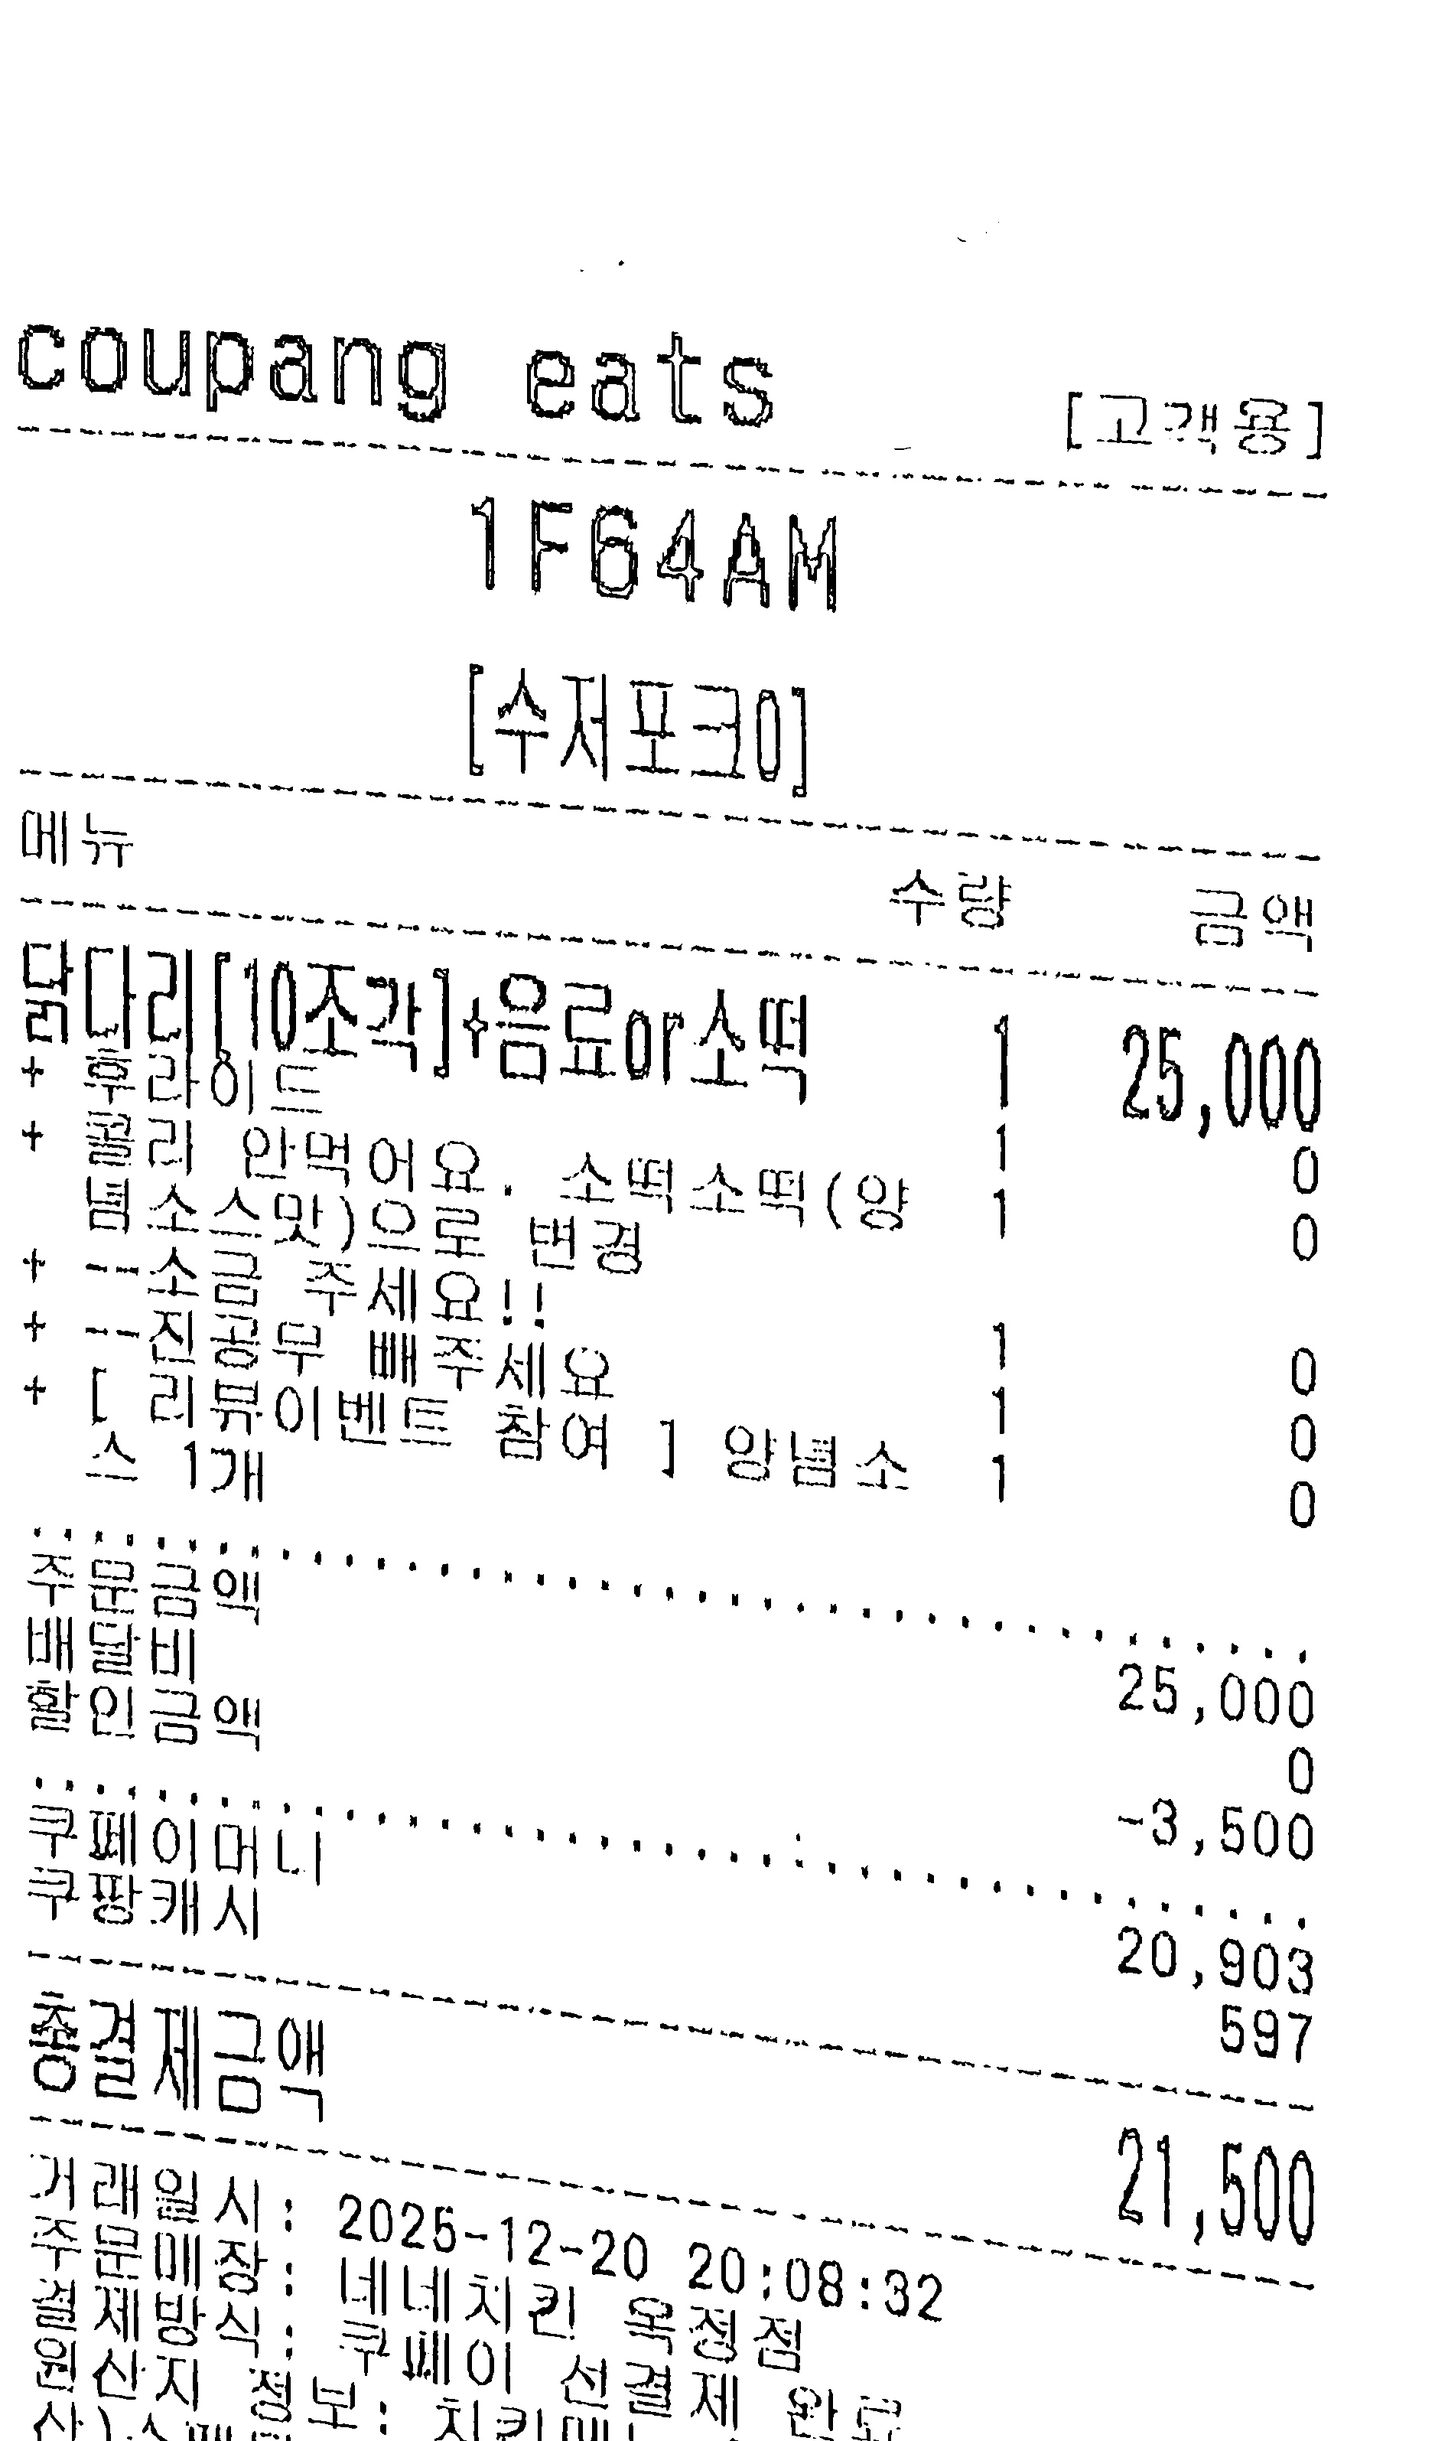
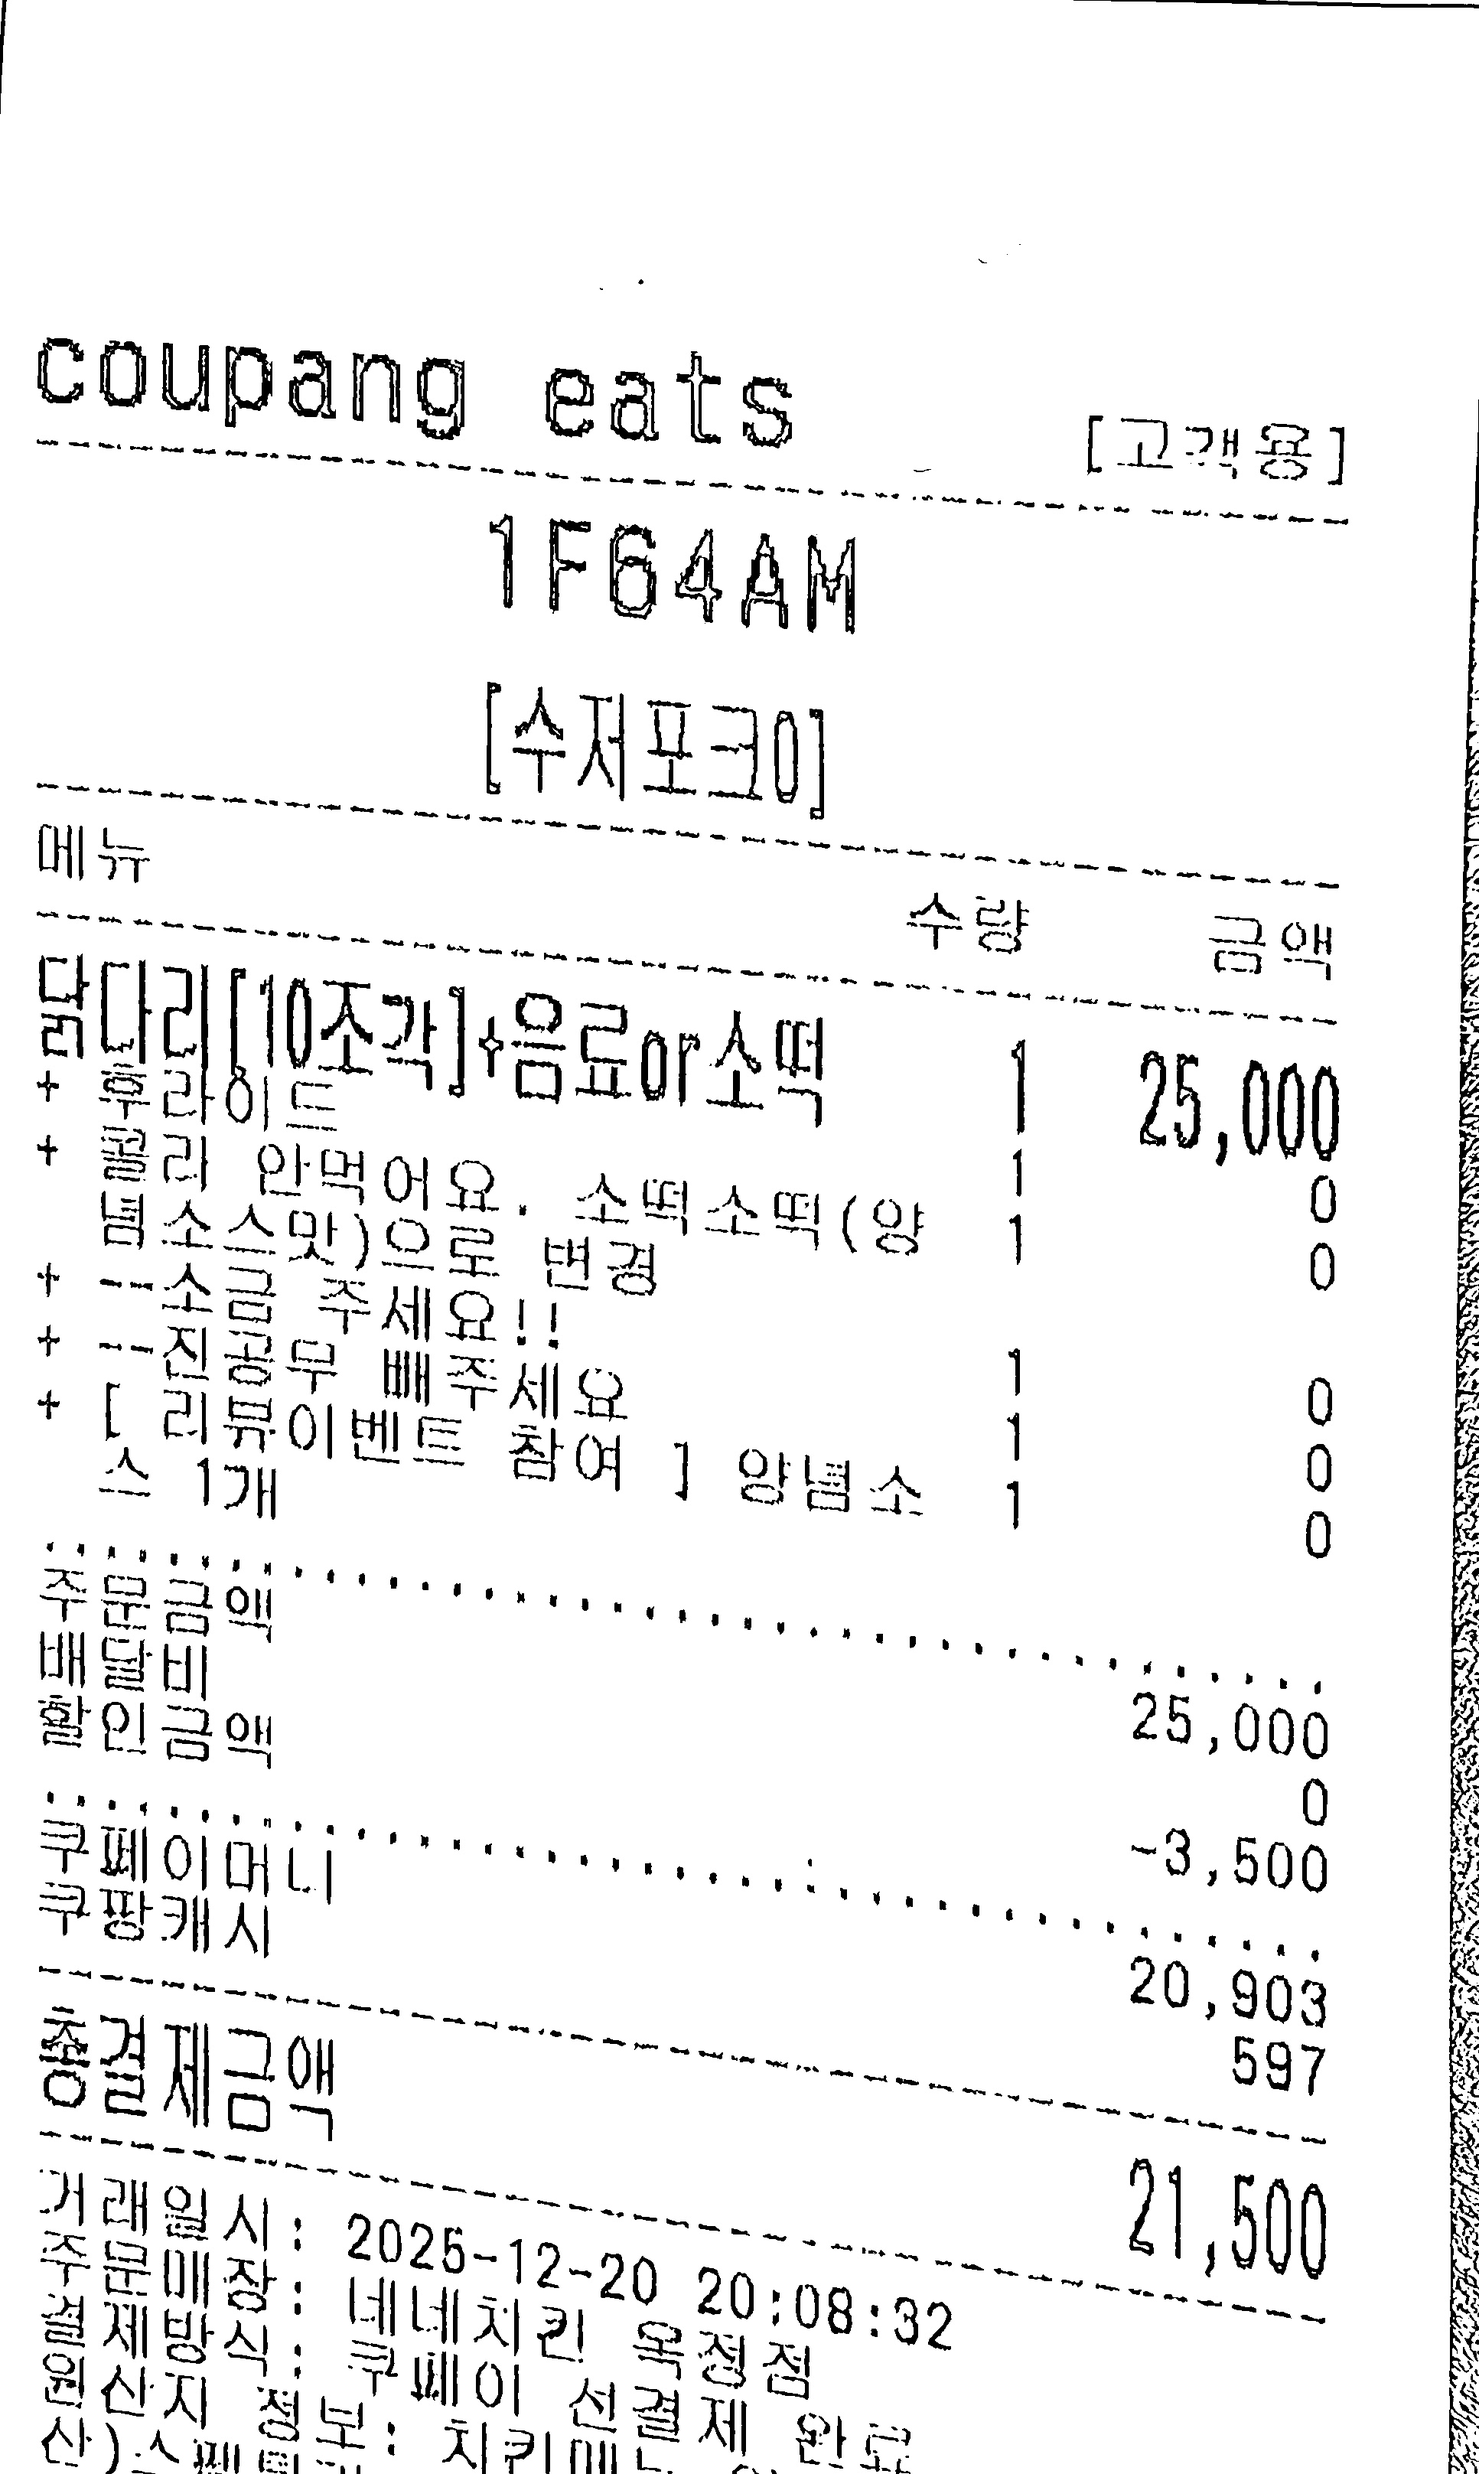
feat: 영수증 전처리 스크립트와 이진화, 윤곽선, 왜곡 보정 결과 이미지 파일을 추가합니다.

diff --git a/backend/geminiCLI-ocr-receipts/preprocess_receipt.py b/backend/geminiCLI-ocr-receipts/preprocess_receipt.py
@@ -262,15 +262,20 @@ def get_white_paper_mask(image):
                 best_score = score
                 best_threshold = (v_thresh, s_thresh, l_thresh)
                 
-                # 최적 마스크 생성
+                # 최적 마스크 생성 - convex hull 사용 (그림자로 인한 오목한 부분 채움)
+                hull = cv2.convexHull(contour)
                 best_mask = np.zeros((h, w), dtype=np.uint8)
-                cv2.drawContours(best_mask, [contour], -1, 255, -1)
+                cv2.drawContours(best_mask, [hull], -1, 255, -1)
     
     if best_mask is None:
         # fallback: 가장 밝은 영역
         _, best_mask = cv2.threshold(v_channel, 150, 255, cv2.THRESH_BINARY)
     
-    # 최종 갭 채우기
+    # 마스크를 약간 확장 (그림자 영역 포함)
+    kernel_expand = cv2.getStructuringElement(cv2.MORPH_RECT, (10, 10))
+    best_mask = cv2.dilate(best_mask, kernel_expand, iterations=1)
+    
+    # 갭 채우기
     kernel_large = cv2.getStructuringElement(cv2.MORPH_RECT, (15, 15))
     best_mask = cv2.morphologyEx(best_mask, cv2.MORPH_CLOSE, kernel_large, iterations=2)
     
